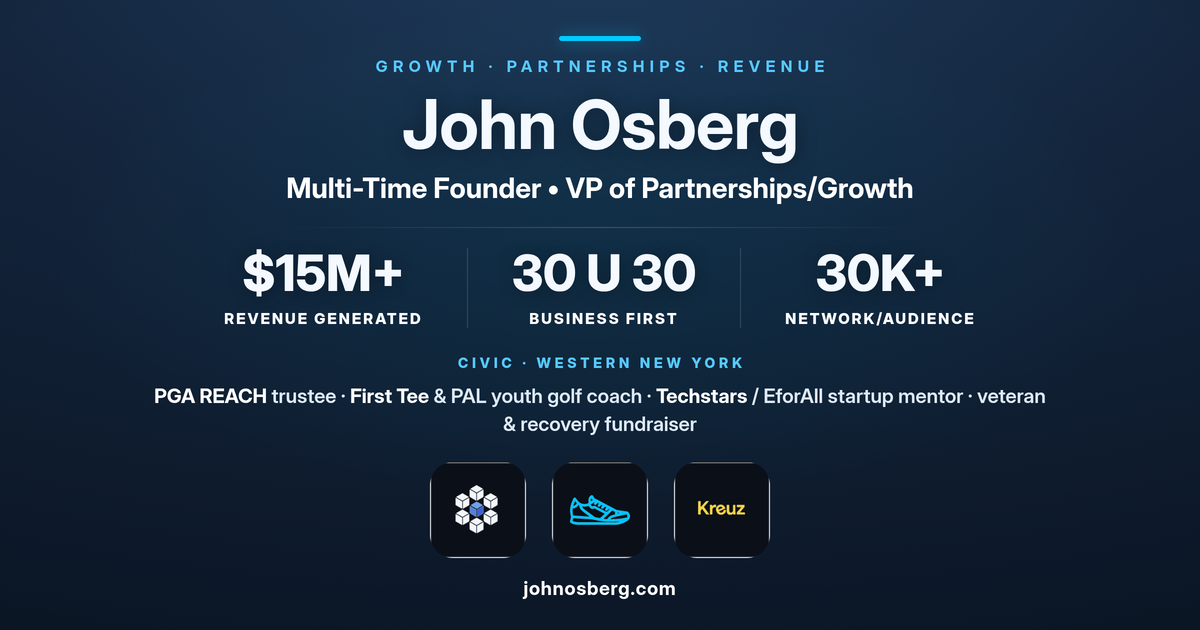
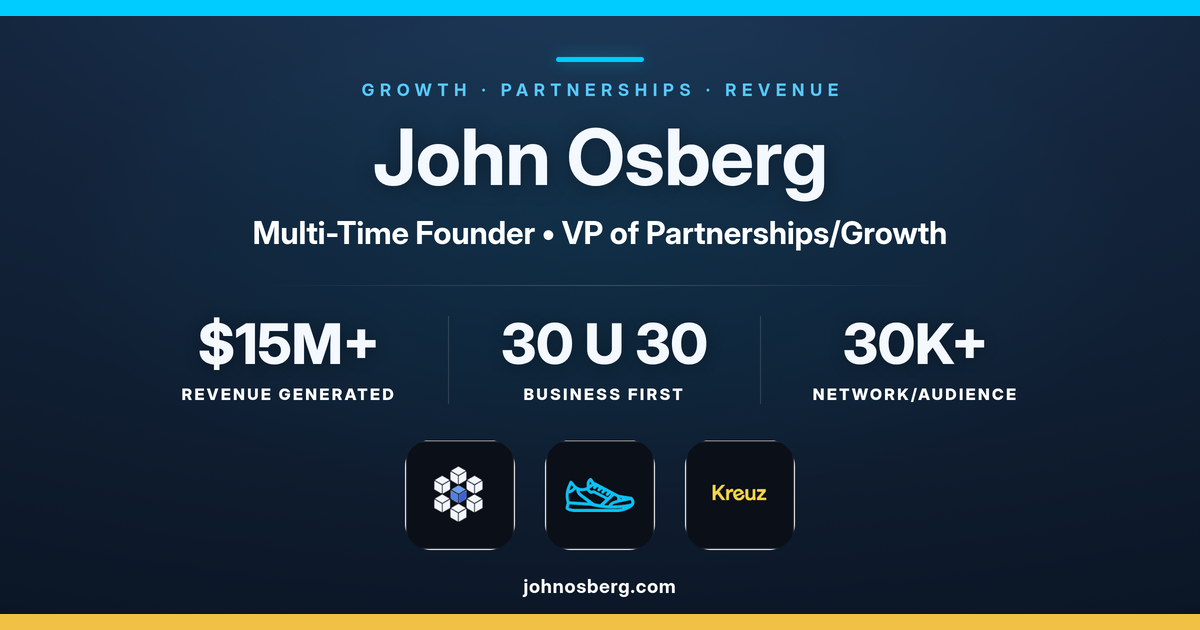
og: match BTS newsletter frame, drop civic lines
Restyle the link-preview card with the Bigger Than Sports newsletter's
signature frame (cyan top rule, gold bottom rule) so the site preview and
newsletter tile read as a matched set. Remove the two civic lines per
John's request; bump og cache-bust to v94.

Changed region(s): [[0.0, 0.0, 1.0, 1.0], [0.5858, 0.8444, 0.6475, 0.9048]]

diff --git a/src/app/layout.tsx b/src/app/layout.tsx
@@ -44,13 +44,13 @@ export const metadata: Metadata = {
     siteName: SITE_NAME,
     locale: "en_US",
     type: "website",
-    images: [{ url: "/og.png?v=93", width: 1200, height: 630, alt: SITE_NAME }],
+    images: [{ url: "/og.png?v=94", width: 1200, height: 630, alt: SITE_NAME }],
   },
   twitter: {
     card: "summary_large_image",
     title: SITE_TITLE,
     description: OG_DESCRIPTION,
-    images: ["/og.png?v=93"],
+    images: ["/og.png?v=94"],
   },
 };
 
